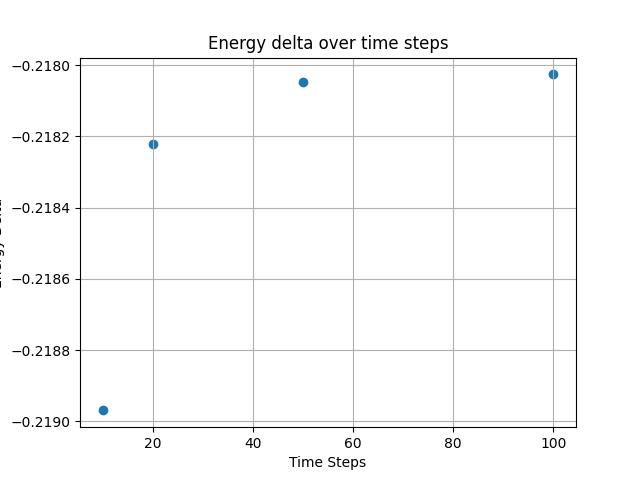
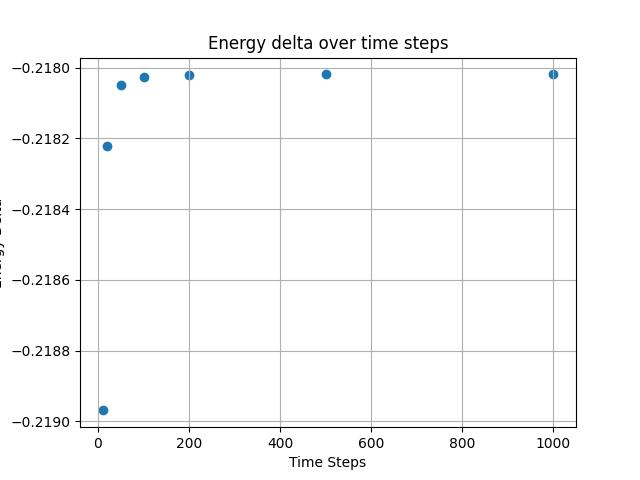
Did longer runs of the test script
test_script.py: Added 200, 500, and 1000 timesteps to Nt for more extended simulations. The total runtime of the script was 2.5 hours.

sph_energy.py: Added some comments and fixed some spacing issues.

temp folder now contains freshly run arrays.

diff --git a/sph_energy.py b/sph_energy.py
@@ -49,10 +49,11 @@ def kinetic_energy(v_i):
 def grav_potential(i, position_arr, smoothlength_i):
     pot = 0
     for j in range(position_arr.shape[0]):
-        if i==j:
-            pot+=0
+        if i == j:
+            pot += 0 # this gets rid of NaN errors, removes self-gravitation
         else:
-            pot += phys.PARTICLE_MASS * grav.grav_kernal(phys.distance(position_arr[j], position_arr[i]), smoothlength_i)
+            pot += phys.PARTICLE_MASS * grav.grav_kernal(phys.distance(position_arr[j], position_arr[i]),
+                                                         smoothlength_i)
     return 0.5 * G * pot
 
 
@@ -108,7 +109,7 @@ def energy_evolve(j, position_arr, velocity_arr, energy_arr, pressure_arr, densi
 
     for i in range(velocity_arr.shape[0]):
         density_change += phys.PARTICLE_MASS * np.dot(velocity_arr[j] - velocity_arr[i],
-                                                 num.dellM4(position_arr[j], position_arr[i], smoothlength_j))
+                                                      num.dellM4(position_arr[j], position_arr[i], smoothlength_j))
 
     energy_change = pressure_arr[j] / density_arr[j] ** 2 * density_change
 
@@ -159,8 +160,8 @@ def energy_rate(j, position_arr, velocity_arr, pressure_arr, density_arr, smooth
 
         #d/dt of kappa
         viscosity_sum += 0.5 * (phys.PARTICLE_MASS * Pi(j, i, position_arr,
-                                                   velocity_arr, pressure_arr,
-                                                   density_arr, smoothlength_arr)
+                                                        velocity_arr, pressure_arr,
+                                                        density_arr, smoothlength_arr)
                                 * np.dot(vji, mean_dellM4))
         #* np.dot(velocity_arr[j], mean_dellM4))
 

diff --git a/test_script.py b/test_script.py
@@ -87,7 +87,8 @@ initial_h = np.ones(N) * phys.COUPLING_CONST * total_size / N ** (1 / 3)
 total_time = 3e6
 # Defining Nt as an array, then going to run each simulation based on this
 # Found out that there is a limit to the number of large time steps. Nt = 5 raises an error
-Nt = np.array([10,20,50,100])
+Nt = np.array([10,20,50,100,200,500,1000])
+#Nt = np.array([10,20,50,100])
 #Nt = np.array([10, 20]) # used for testing loop and plotting functionality
 # Nt = 10  -->  56s runtime
 # Nt = 20  --> 115s runtime
@@ -107,15 +108,15 @@ Nt = np.array([10,20,50,100])
 ##################################
 # Showing all defined parameters #
 ##################################
-print("Total_mass", total_mass)
-print("Total_size", total_size)
-print("Total_time", total_time)
-print("T0", T0)
+#print("Total_mass", total_mass)
+#print("Total_size", total_size)
+#print("Total_time", total_time)
+#print("T0", T0)
 # print("dt", dt)
-print("N", N)
-print("L", L)
-print("time steps", Nt)
-print("Initial smooth length: ", initial_h[0])
+#print("N", N)
+#print("L", L)
+#print("time steps", Nt)
+#print("Initial smooth length: ", initial_h[0])
 
 energy_delta = np.zeros(len(Nt))
 stepper = 0  # steps through the energy_delta
